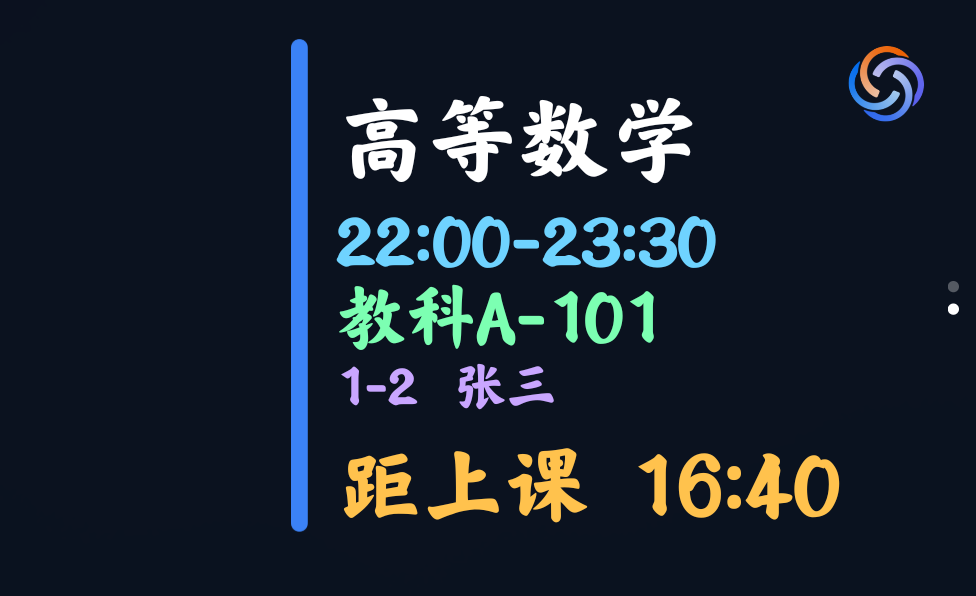
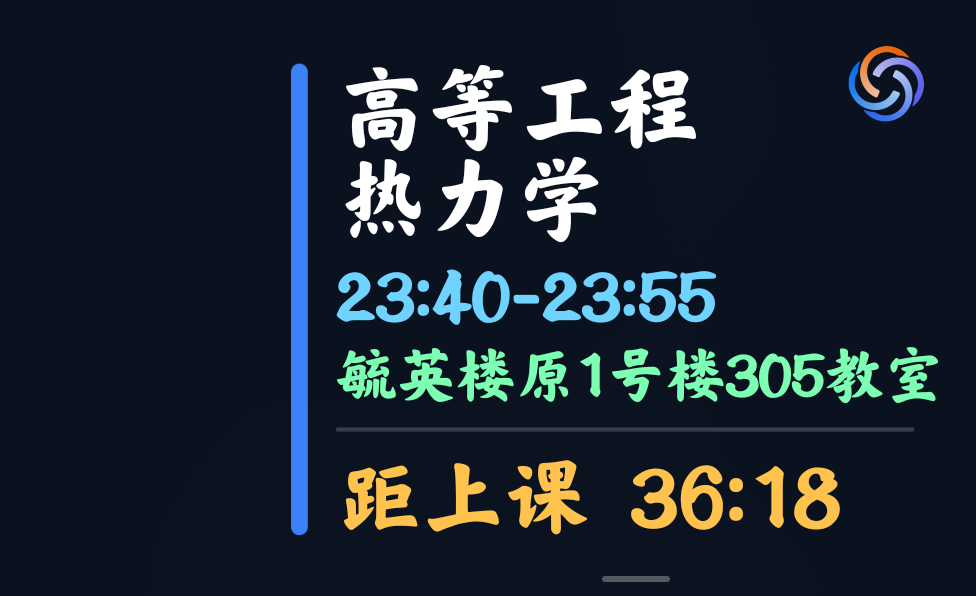
docs: v1.2.0 版式说明 + 同步模板与预览图，作者署名 W.J.

diff --git a/README.md b/README.md
@@ -1,13 +1,31 @@
 # 超级小爱课程表背屏
 
+作者：W.J.
+
 在小米 17 Pro 系列背屏上显示课程提醒卡片。必须搭配 [课程表超级岛](https://github.com/Xposed-Modules-Repo/com.xiaoai.islandnotify)（或本仓库作者的背屏分支）与 [REAREye](https://github.com/killerprojecte/REAREye) 使用。
 
 ## 组件信息
 
 - 组件名（business）：`xiaoai_course_schedule`（见 `widget_info.json`，不可改名）
 - 类型：`notification`（由焦点通知驱动）
-- 模板：`xiaoai_course_schedule.zip`（MAML v2，`frameRate=1` 低开销版；左侧竖线与标题上沿对齐）
+- 模板：`xiaoai_course_schedule.zip`（MAML v2，`frameRate=1` 低开销版）
+- 当前版本：`v1.2.0`（2026-10-30）
 - 最低 REAREye：251
+
+## 版式（v1.2.0）
+
+从上到下只有四行内容：
+
+| 行 | 内容 | 样式 |
+|---|---|---|
+| 1 | 课程名 | 白色加粗 26 号；超过 5 字按 4 字一行折行（7 字 → `高等工程` / `热力学`），右上角保留超级小爱图标位 |
+| 2 | 起止时间 | 青色 20 号 |
+| 3 | 教室 | 薄荷绿 17 号；12 字以内单行，超长自动两行 |
+| 4 | 倒计时 | 橙色 24 号，上方一条 1.5 单位细分割线 |
+
+- 整块内容垂直居中，蓝色竖线随内容高度自适应（无倒计时时缩到教室行下方）
+- 教室行与倒计时之间不预留空行，避免出现“教室只占一行、下面却空半行”的空洞
+- 不再显示节次与教师（模块仍会上报这两个字段，模板不再渲染）
 
 ## 安装
 
@@ -26,11 +44,12 @@
 
 | 字段 | 含义 | 卡片位置 |
 |---|---|---|
-| `title` | 课程名（约 9 字折两行） | 标题 |
+| `title` | 课程名（>5 字折两行，约 4 字/行） | 标题 |
 | `content` | 起止时间 | 第二行（青） |
-| `hint` | 教室 | 第三行（薄荷绿） |
-| `section` / `teacher` | 节次 / 教师 | 第四行（淡紫） |
+| `hint` | 教室（≤12 字单行，超出两行） | 第三行（薄荷绿） |
 | `countdown_label` + `timer_when` | 倒计时前缀与目标时刻（epoch ms 字符串） | 底部橙色 |
+| `section` / `teacher` | 节次 / 教师 | 保留字段，v1.2.0 起不渲染 |
+| `status` | 状态（即将开始 / 上课中 / 已下课） | 保留字段 |
 
 右上角为超级小爱图标（占原系统时钟位）。
 
@@ -39,6 +58,13 @@
 - **解析必须走 Trigger**：`<ExternalCommands><Trigger action="init">` + `notification_received` 调 `loadData`。
 - **`num()` 只认变量**：`num(jsonGetString(...))` 恒为 0，要先赋字符串变量再 `num(@var)`。
 - **熄屏倒计时**：根标签需 `useVariableUpdater="DateTime.Minute,DateTime.Second"`，`frameRate=1` 足够（比 60 帧省约 98% 重绘）。
-- **多行标题锚点不同**：用字数判断（`len(@c_title) > 9`）+ 固定行高，不要依赖 `.text_height`。
+- **行宽实测**：26 号字约 22.35 单位/字（标题一行为 4 字左右）；17 号教室行在加宽后可放约 10 字。折行必须按这个宽度预留行数，否则标题第二行会压到时间行。
+- **教室行不要无条件预留两行**：只有 `len(@c_hint) > 12` 才按两行排，否则会出现视觉空洞。
 - **布局避开摄像头**：背屏左侧约 296px 为遮挡区，内容从 `120*scale` 起排。
 - **图标裁边**：按 alpha 包围盒裁切后再设定尺寸。
+
+## 版本历史
+
+- **v1.2.0**（2026-10-30）：重排版式——标题 4+3 折行、教室单行、移除节次/教师、细分割线 + 倒计时页脚、蓝色竖线自适应。
+- **v1.1.0**：倒计时改为每秒刷新，图标移到右上角时钟位，蓝竖线加长。
+- **v1.0.0**：首个版本。
